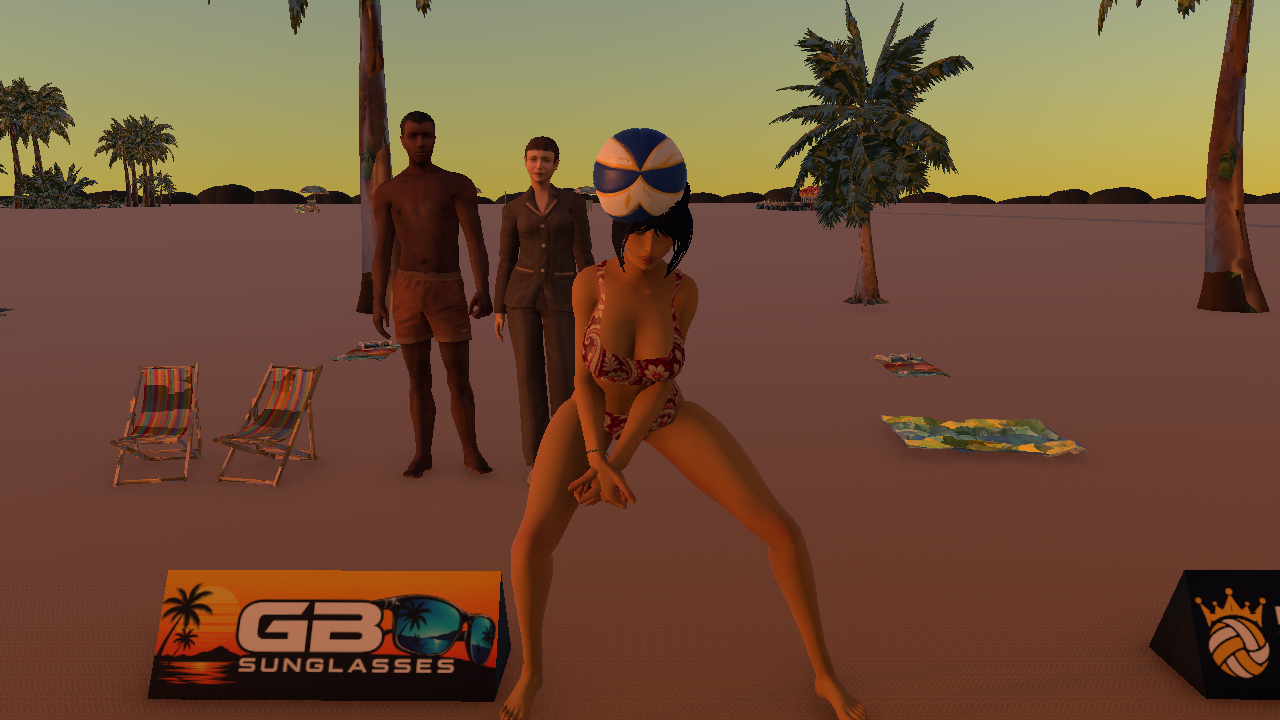
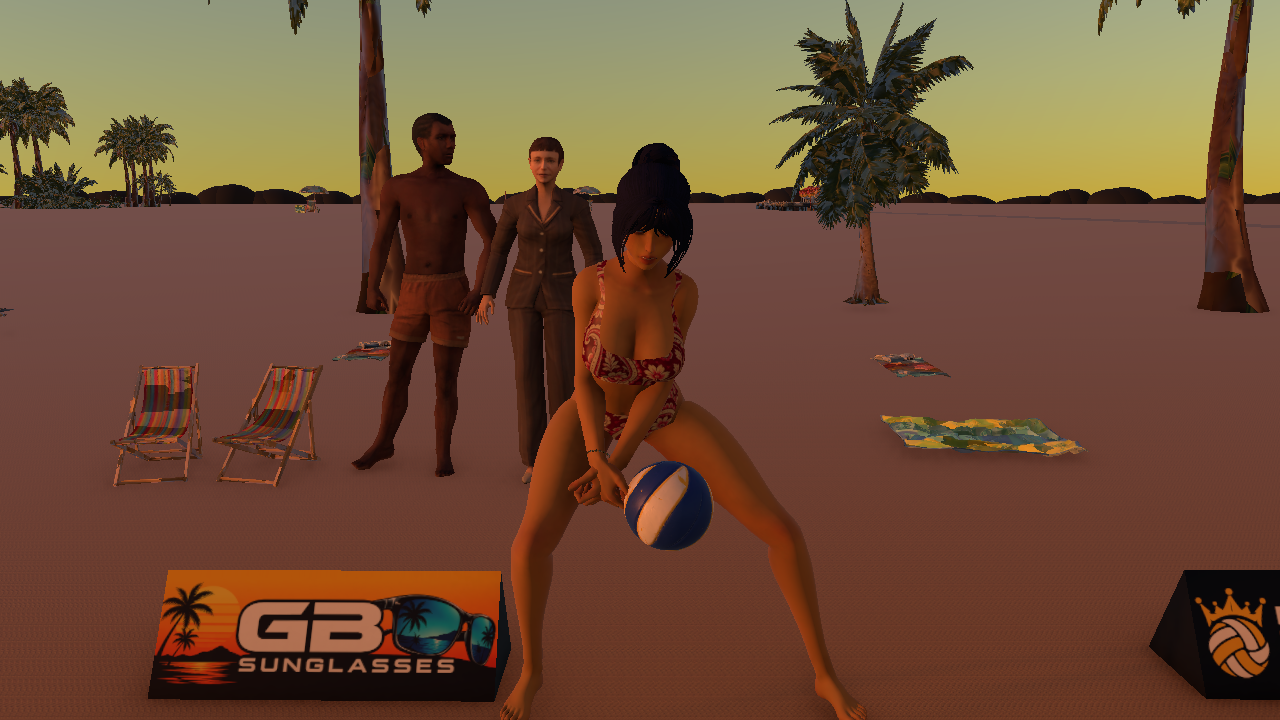
1.2 9c: the ball in her hand at the serve: proof and status
Unity 252a16b5.

diff --git a/docs/update-1.2/UNITY-REBUILD-STATUS.md b/docs/update-1.2/UNITY-REBUILD-STATUS.md
@@ -153,6 +153,7 @@ Brief: `docs/update-1.2/UNITY-REBUILD-BRIEF.md`. Plan: `docs/update-1.2/PLAYABLE
 
 | Item | State | Proof | Commit |
 |---|---|---|---|
+| 9c The ball in her hand at the serve (29 Nov) | Done, PASS: drawn in her left hand in played and Auto, clear of head and hat; drawing only (A1 18/18, --unity-full 13/13) | `proof/9c/9c-serve-hold-sheet.png`, `proof/D6/d6-player_a2.png` | Unity `252a16b5` |
 | 9d Music: Rob's ruling (29 Nov) | Done, PASS: the control was already there (Settings and the court's settings, remembered); only the court's help text corrected | `scripts/webgl-proof/music-9d.mjs` 8/8, `proof/9d/` | game only |
 | 9b Rob's swimwear prints (29 Nov) | Done, PASS: his 23 swatches as 20 prints (paisley 4 ways), 11 the player recolours by Rob's rule, 9 as painted; a new print is a picture and a line; 42 MB to 3.0 MB; seams cut to whole repeats or mirrored; the palette of brights and pastels | `proof/9b/9b-prints-sheet.png`; store 30/30, exhibition --unity 30/30 | Unity `ace36fd0` |
 | 9a Tinted sunglasses (29 Nov) | Done, PASS: five lens tints beside the frame colour, in the store and on the pick screen; eyes faint behind them; the floodlights light them | `proof/9a/9a-lenses-sheet.png`; store 27/27, exhibition 21/21 | Unity `a7575042` |
@@ -1899,3 +1900,29 @@ Rob approved the songs playing from the band's stage and on through the match. H
 - headless Chrome.
 
 `pages-d4-d6.mjs` uses it too, and passes 11/11 (its hat is now bought in the colour picker's Red).
+
+### 9c: the ball in her hand at the serve (29 Nov 2026)
+
+**Before:** while the server held the ball it was drawn 1.5 m over her feet, at her head.
+- In a played match that is the engine's held-ball position.
+- In Auto, `MatchManager` put it there every frame as she walked to her spot, so it floated beside her head.
+- With a sun hat on, it looked as if it sat on the hat.
+
+**Now:** it is drawn in her left hand, her tossing hand, resting on the palm (`ServeHold.cs`).
+- The palm is found from her own skeleton as it is that frame (between wrist and knuckles), on the side away from her body.
+- It is clear of her head and of any hat, in played and Auto matches alike.
+
+**Drawing only.** The played engine's own held ball (`PlayedEngine.HeldBallPos`) is unchanged, and so are the serve's flight, its start (`BeginServe` still launches from where it did), its timing and every result.
+- A1: 18/18.
+- `harness/played-match.mjs --unity-full`: 13/13. The court played a whole match (28/28, 2-0), reported it, and the game recorded exactly the court's score.
+
+**Proof:**
+- **Auto,** `proof/9c/9c-serve-hold-sheet.png` (`WardrobeProof -mode serve`, a watched match): the server carrying the ball to her spot, from the front and the side, bare-headed and in the sun hat.
+  - The ball is at her hands, 0.69 m from her head.
+- **Played,** `proof/D6/d6-player_a2.png` (`harness/exhibition.mjs --unity`, 30/30): the server, Sophie Müller, the ball in her hands.
+
+**Said plainly: a batch-only effect, now handled in the proofs.**
+- In batch runs nothing counts as seen, so the players' animators (set to cull when unseen) leave their bones in the bind pose.
+- A ball placed by her hand then sat at her bind-pose hand, beside her shoulder.
+- The Unity proofs now make the animators always animate, as the earlier batch proofs did.
+- In the game the camera sees the server, so her bones move.
